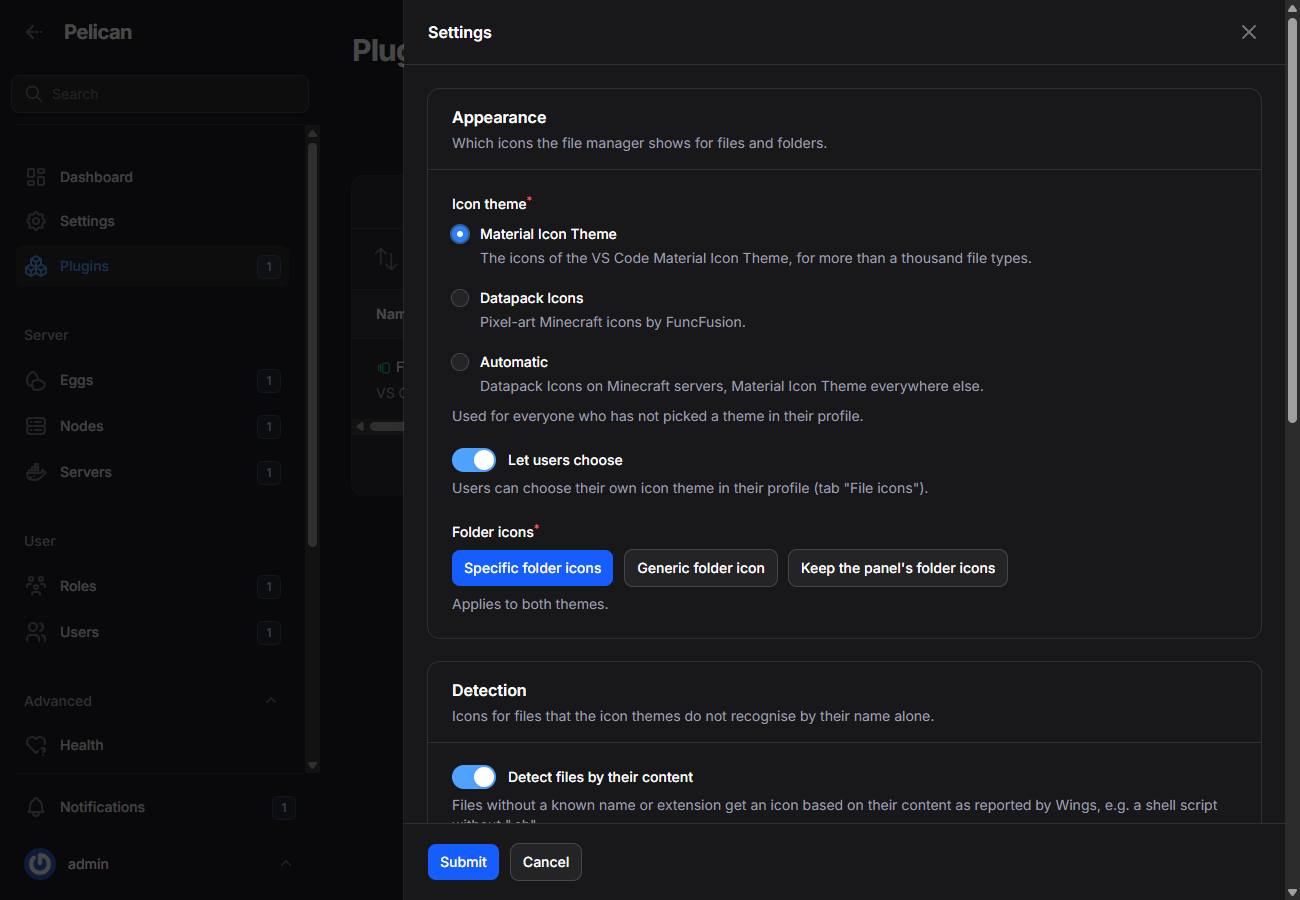
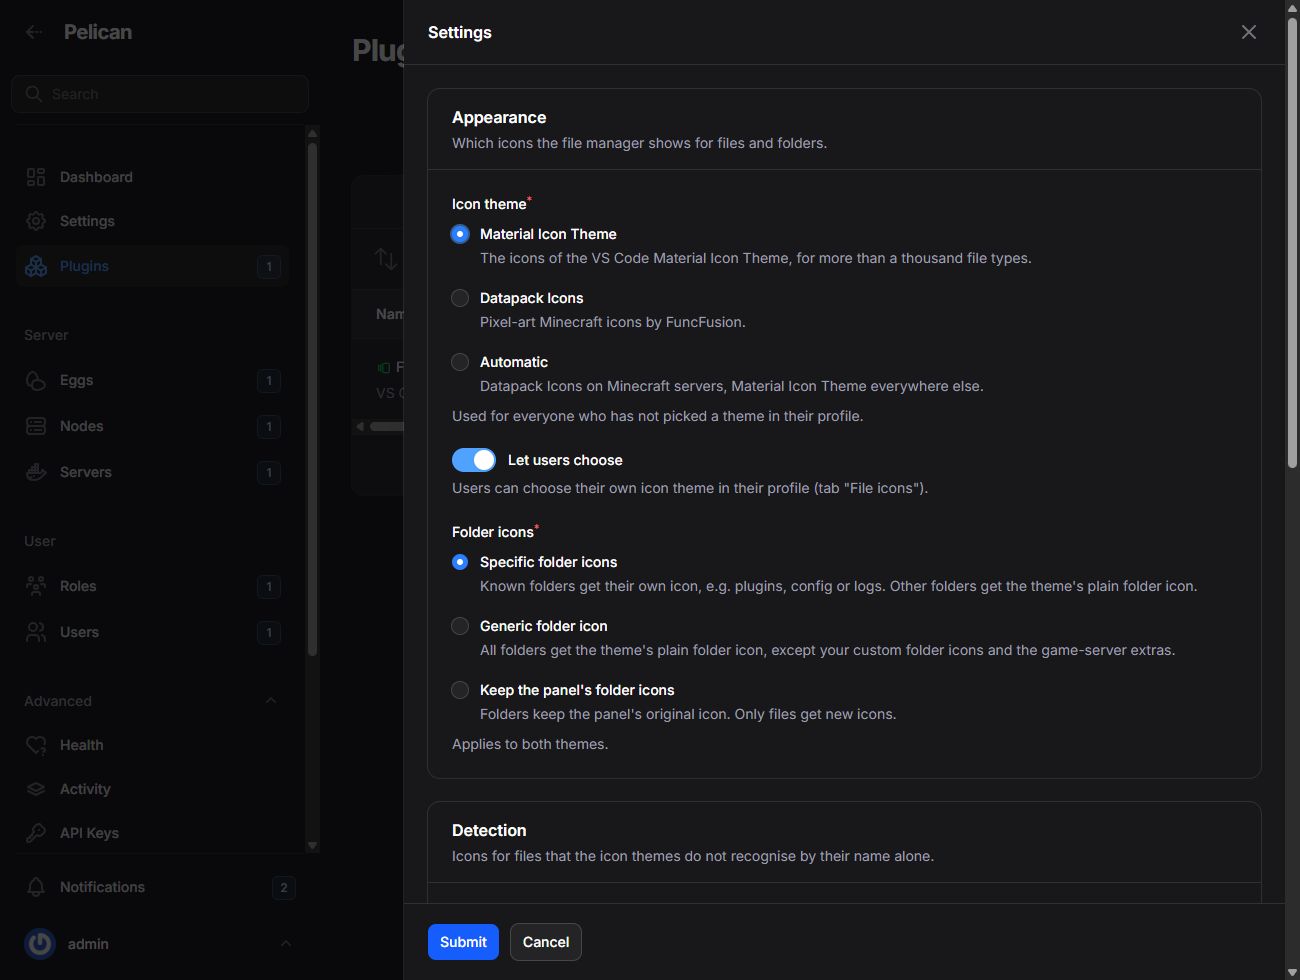
docs: point installation and updates to the Plugin Hub

diff --git a/docs/development.md b/docs/development.md
@@ -51,20 +51,24 @@ bun run fetch:vscode                   # refresh scripts/data/vscode-languages.j
    git push origin main v1.2.3
    ```
 
+3. Once the GitHub release is published, sync it on the [Pelican Plugin Hub](https://hub.pelican.dev/plugins/file-icons).
+
 The [release workflow](../.github/workflows/release.yml) checks that the tag matches `plugin.json`, runs the
-tests, builds the zip and publishes a GitHub release with three files:
+tests, builds the zip and publishes a GitHub release with two files:
 
 | File | Purpose |
 |---|---|
-| `file-icons-<version>.zip` | The plugin. `update.json` points to this file. |
+| `file-icons-<version>.zip` | The plugin. |
 | `file-icons.zip` | The same zip under a fixed name, for `.../releases/latest/download/file-icons.zip`. |
-| `update.json` | The update feed. `update_url` in `plugin.json` points to `.../releases/latest/download/update.json`. |
 
-Installed copies of the plugin check `update.json` and show an **Update** button in the panel's plugin list. The
-release notes are taken from the version's section in `CHANGELOG.md`.
+The release notes are taken from the version's section in `CHANGELOG.md`.
 
-`bun run release` builds the same zip locally. With `--download-url <url>` it also writes `dist/update.json`
-(`{version}` in the URL is replaced with the version).
+Updates are delivered through the Plugin Hub: `update_url` in `plugin.json` has to stay
+`https://hub.pelican.dev/plugins/file-icons/update.json`, otherwise the Hub rejects the release. After a sync,
+installed copies show an **Update** button in the panel's plugin list.
+
+`bun run release` builds the same zip locally. With `--download-url <url>` it also writes a `dist/update.json`
+for a self-hosted update feed (`{version}` in the URL is replaced with the version).
 
 ## Updating the icon themes
 

diff --git a/README.md b/README.md
@@ -34,6 +34,11 @@ Pelican Panel 1.0 (tested with `v1.0.0-rc.3`). Nothing else: no Node.js and no b
 
 ## Installation
 
+**From the Plugin Hub:** in the admin area, open **Plugins → Browse Plugin Hub**, search for *File Icons* and
+install it. You can also find it on [hub.pelican.dev](https://hub.pelican.dev/plugins/file-icons).
+
+**From a URL:**
+
 1. In the admin area, open **Plugins** and click **Import from URL**.
 2. Paste this link and confirm:
 
@@ -66,7 +71,8 @@ shows that file as changed. Don't commit that change, and keep it when you pull 
 
 ## Updating
 
-When a new version is released, the plugin list shows an **Update** button. Your settings are kept.
+Updates come through the Pelican Plugin Hub: when a new version is out, the plugin list shows an **Update**
+button. Your settings are kept.
 
 ## Choosing your icon theme
 
